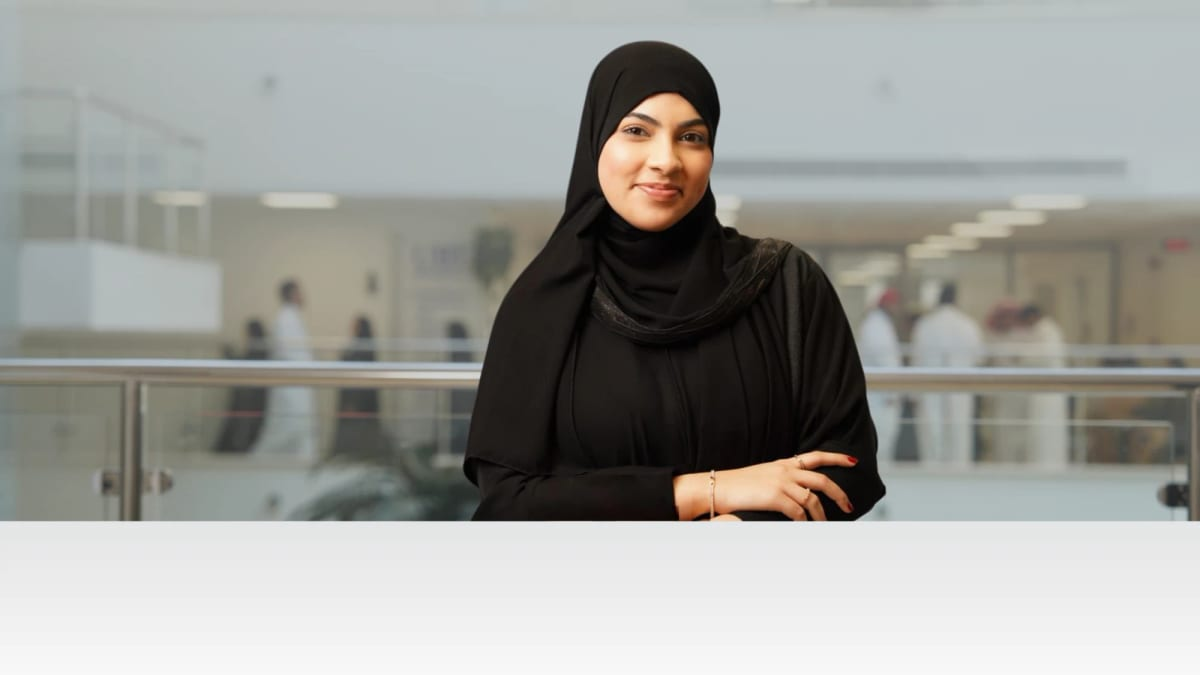
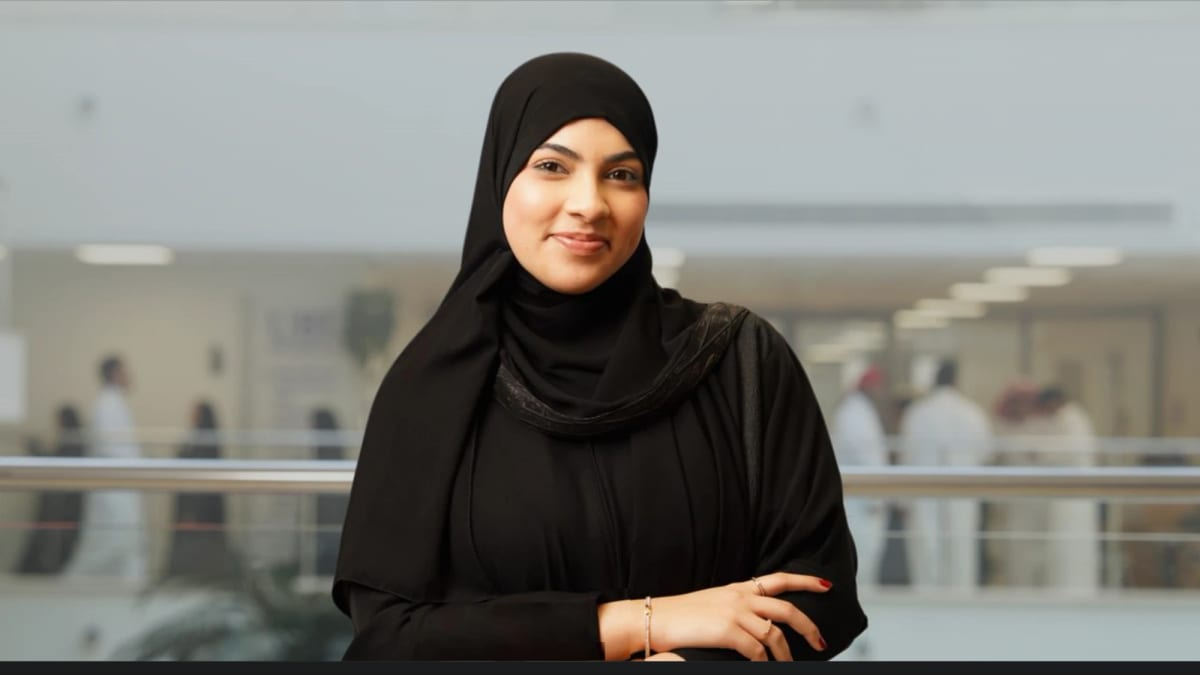
Hero takes the closer crop
Same 16:9 frame, tighter on her, so the focal point moves to 48%/28% —
and the About intro portrait, which borrows the same file, follows it.

Still no scrim at the top: measured from rendered pixels with the type
hidden, the navigation clears 8.6:1 at its worst across four viewports,
and the foot rail clears 8.2:1.

Claude-Session: https://claude.ai/code/session_01GnrW7EvyFLiE4JkSmEmjT6

diff --git a/src/data/site.ts b/src/data/site.ts
@@ -38,7 +38,7 @@ export const site = {
     widths: [800, 1200, 2000],
     /* Where the face sits in the frame, as x% y%. The hero crops hard on
        tall viewports and this is what keeps her in shot. */
-    focus: '54% 30%',
+    focus: '48% 28%',
   },
 
   /* --- Resume ----------------------------------------------------------

diff --git a/src/data/about.ts b/src/data/about.ts
@@ -33,7 +33,7 @@ export const introPortrait: MediaItem = {
   src: '/assets/portrait/maryam-portrait.jpg',
   alt: 'Maryam Imran at the University of Business & Technology in Jeddah',
   ratio: '16/9',
-  focus: '54% 30%',
+  focus: '48% 28%',
 };
 
 export const montage: MontageItem[] = [
